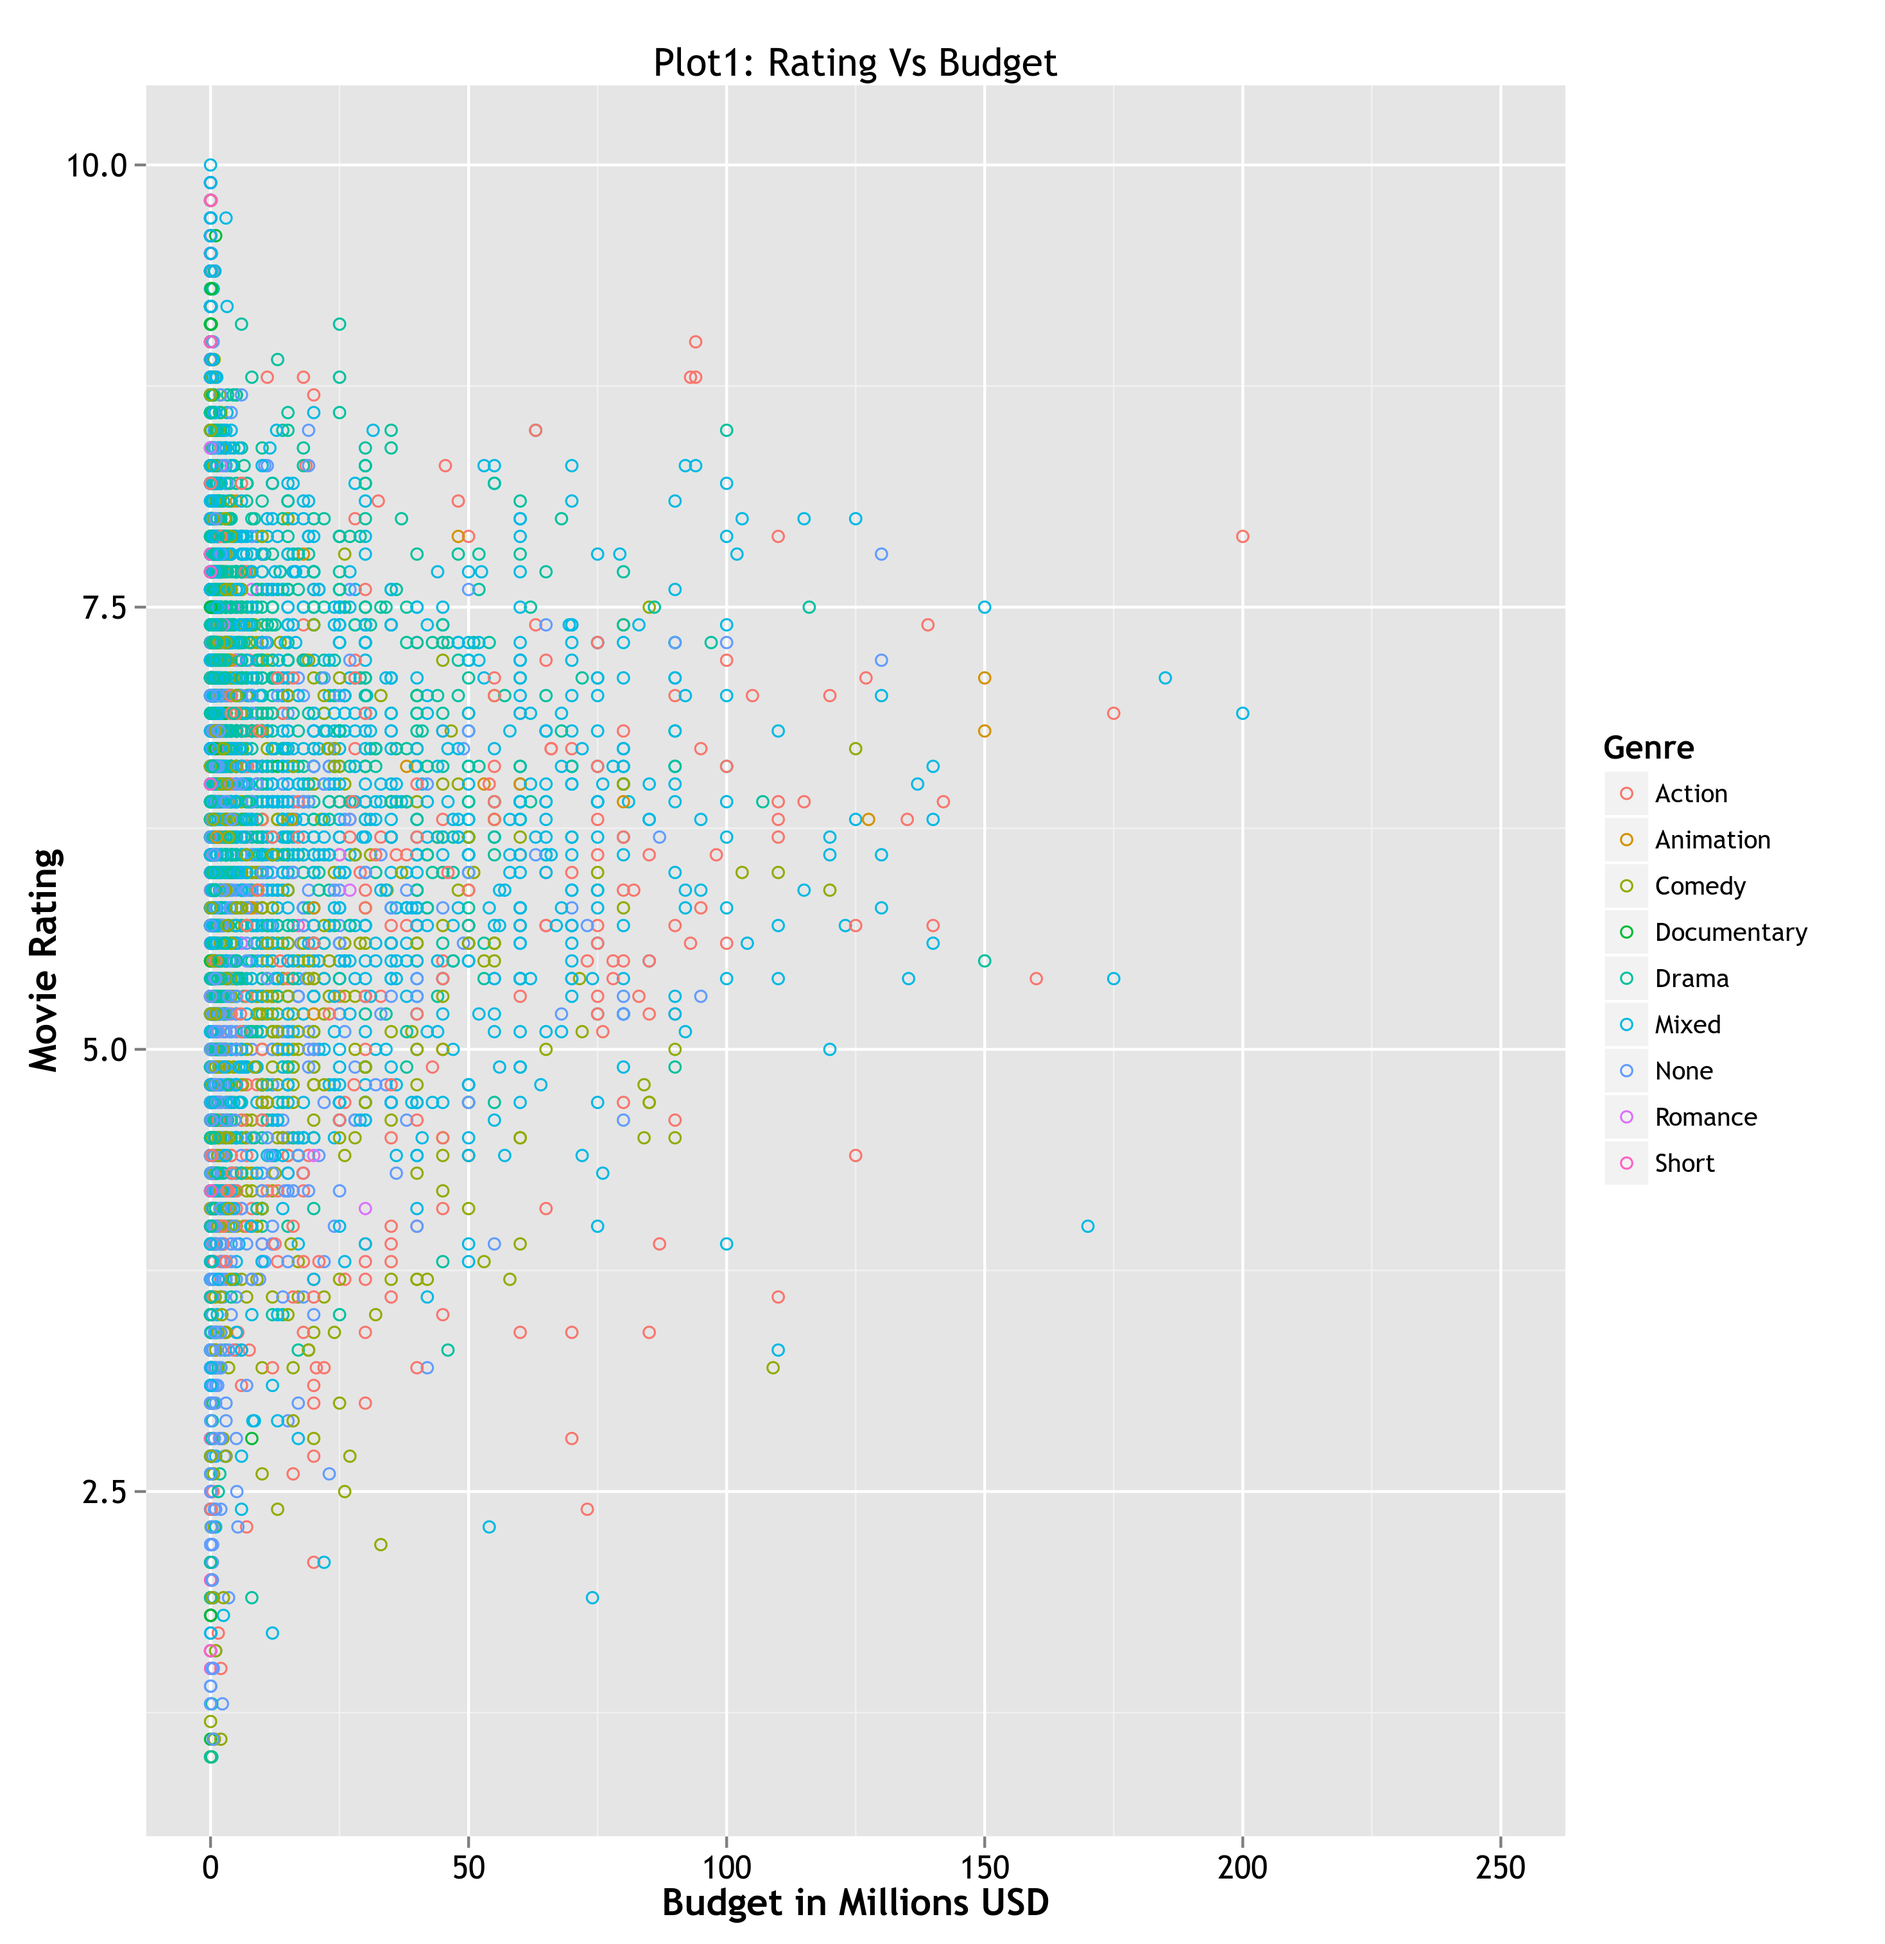
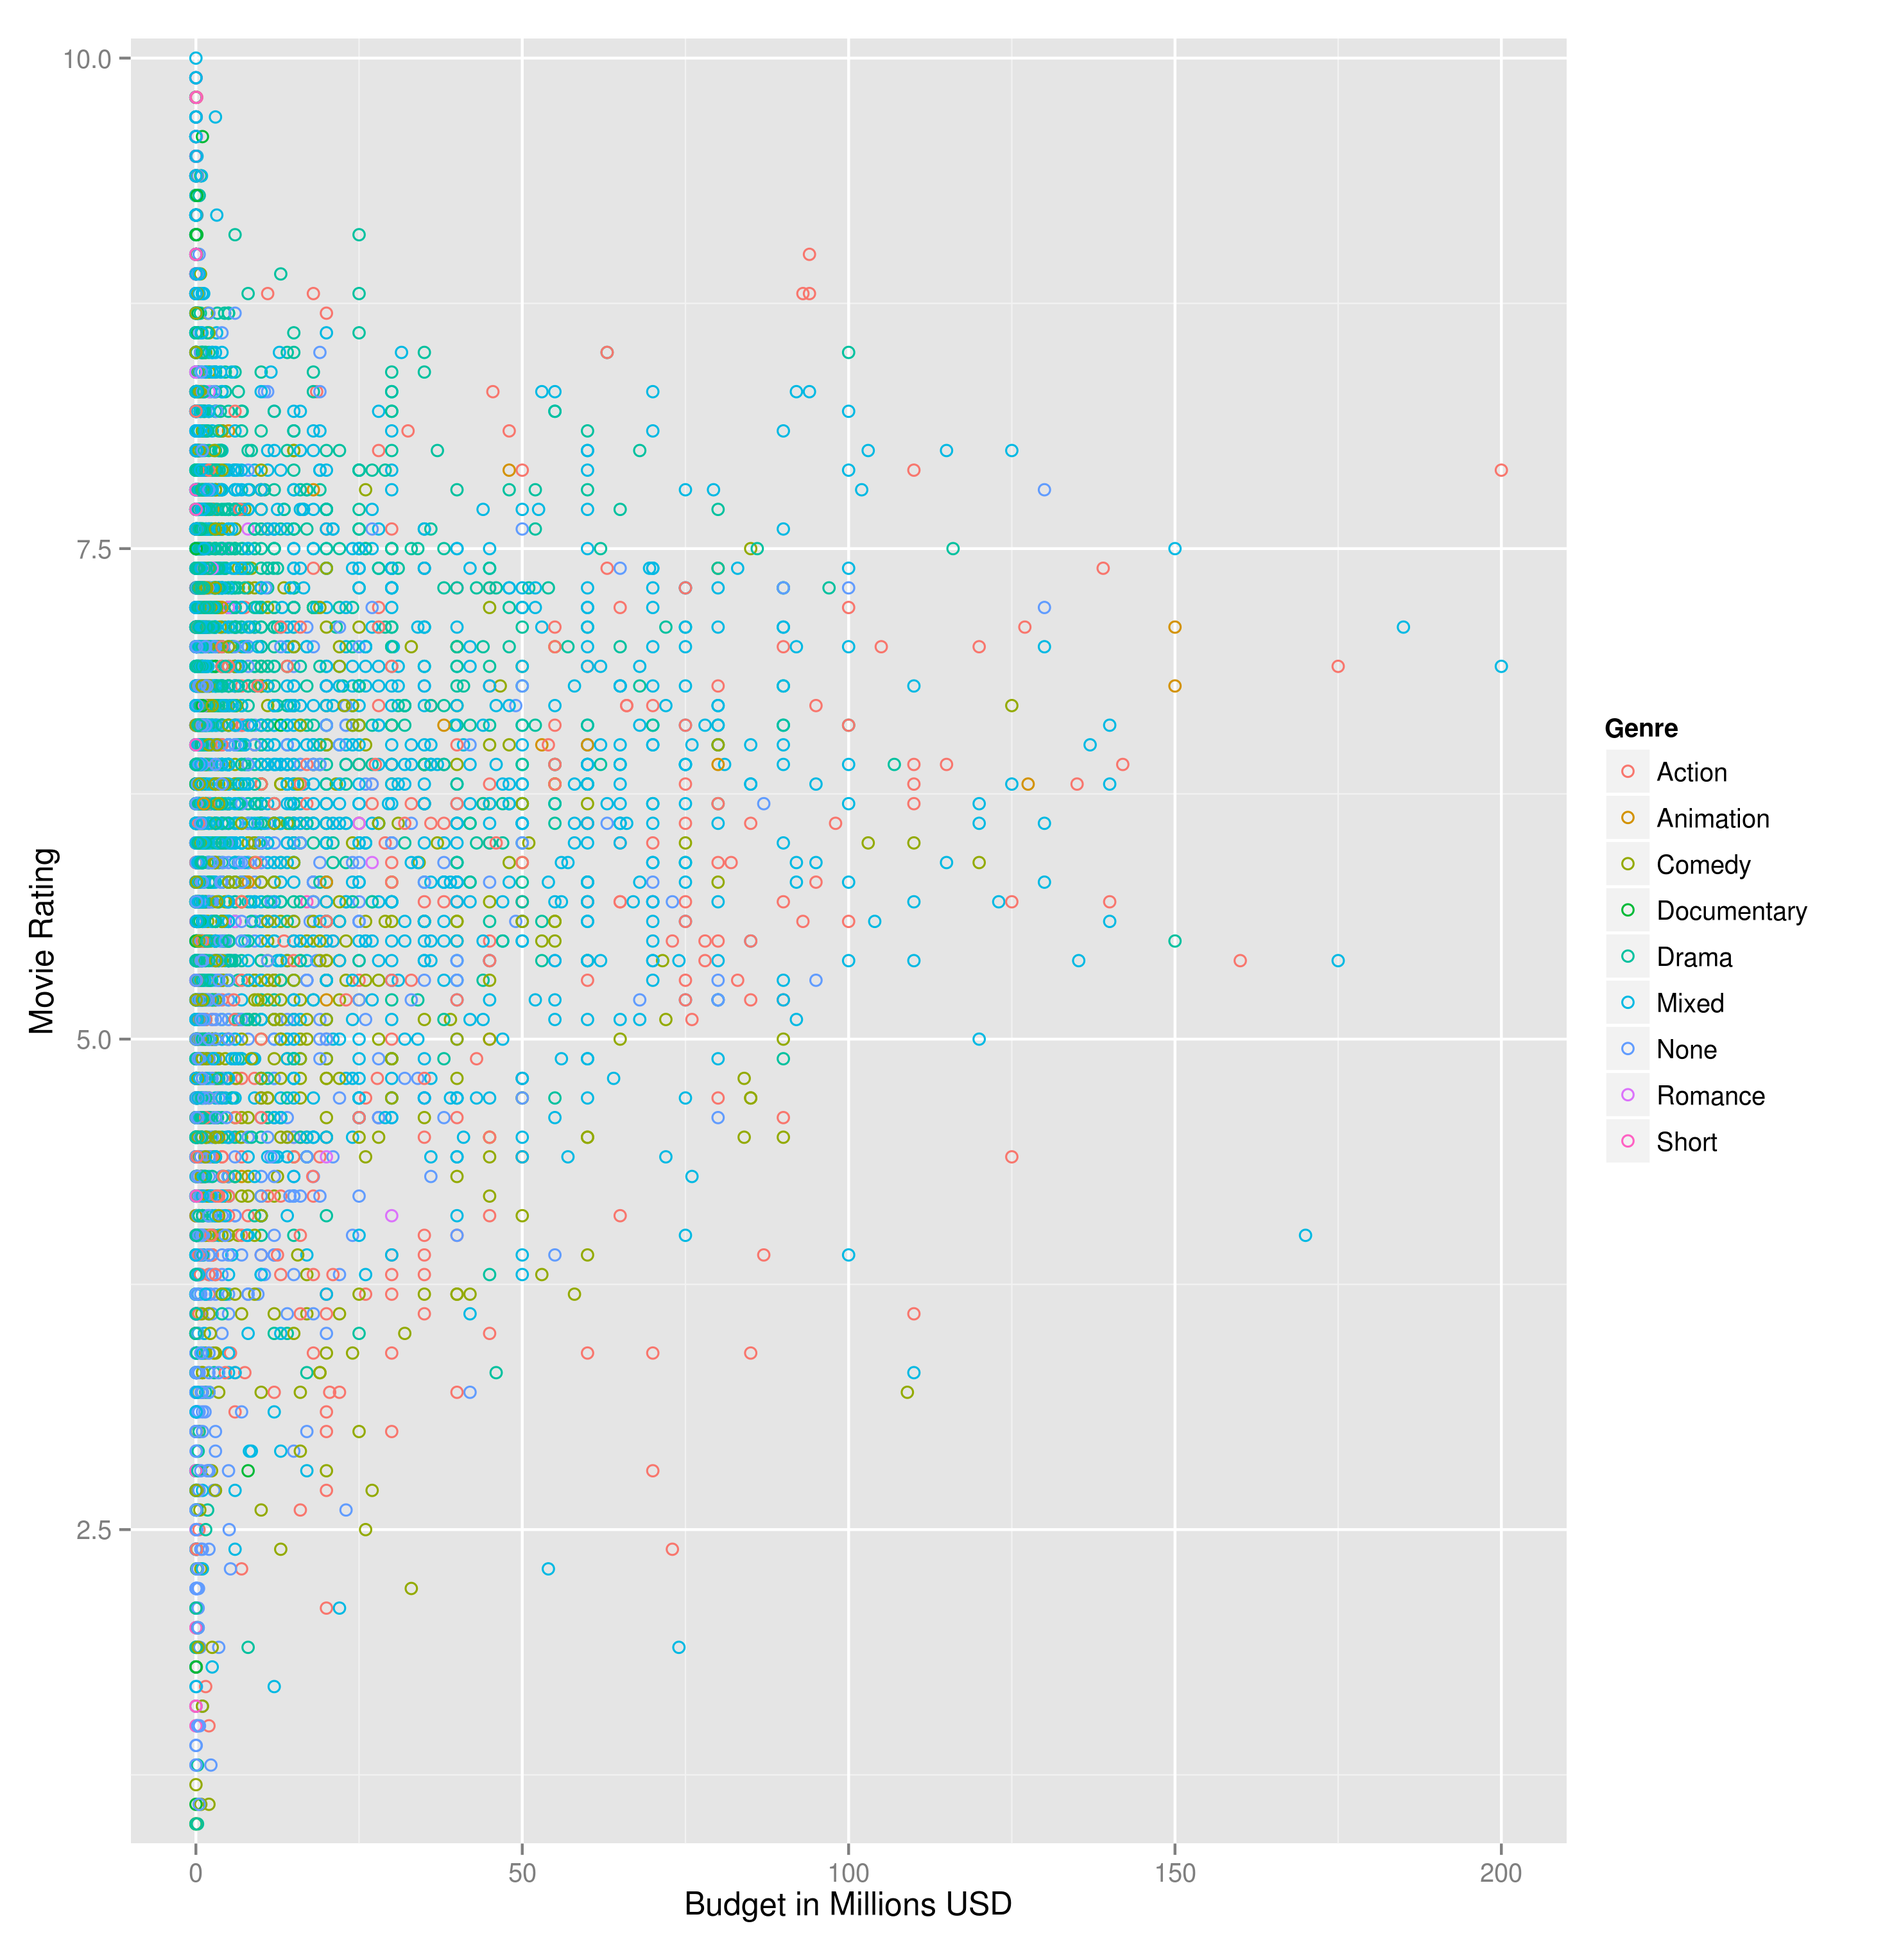
modify

diff --git a/homework1/Homework 1.md b/homework1/Homework 1.md
@@ -1,15 +1,10 @@
 Homework 1: Basic Charts
 ==============================
 
-For this assignment, you will practice using `R` and `ggplot2` to generate several basic charts, including a scatterplot, bar chart, small multiples plot, and multi-line plot.
-
-:warning: Your charts may be displayed and discussed in class. Please make sure to **not** include your name on the charts themselves to protect your identity.
-
 Setup
 ------------------------------
 
-This assignment will use the `movies` dataset in the `ggplot2` package and the `EuStockMarkets` dataset. You will need to perform some transformations of these datasets first to prepare for the visualizations.
-
+This assignment will use the `movies` dataset in the `ggplot2` package and the `EuStockMarkets` dataset. 
 Use the following code to load the datasets:
 
 ```
@@ -20,7 +15,11 @@ data(EuStockMarkets)
 
 Then, perform the following transformations:
 
-- Filter out any rows that have a `budget` value less than or equal to 0 in the `movies` dataset. 
+- Filter out any rows that have a `budget` value less than or equal to 0 or an 'NA' in the `movies` dataset. 
+  ```
+  idx <- which(movies$budget <=0 | is.na(movies$budget))
+  movies <- movies[-idx,]
+  ```
 
 - Add a `genre` column to the `movies` dataset as follows:
   ```
@@ -35,6 +34,10 @@ Then, perform the following transformations:
   genre[which(count == 1 & movies$Documentary == 1)] = "Documentary"
   genre[which(count == 1 & movies$Romance == 1)] = "Romance"
   genre[which(count == 1 & movies$Short == 1)] = "Short"
+
+  # Add the Genre column to the movies2 dataframe
+  movies$Genre <- genre
+
   ```
 
 - Transform the `EuStockMarkets` dataset to a time series as follows:
@@ -42,40 +45,26 @@ Then, perform the following transformations:
   eu <- transform(data.frame(EuStockMarkets), time = time(EuStockMarkets))
   ```
 
-At this point, you are ready to start working on the visualizations.
-
-Visualizations
+Visualizations & Discussion
 ------------------------------
 
-You must create the following plots in a single `R` script:
+- **Plot 1: Scatterplot.** 
 
-- **Plot 1: Scatterplot.** Produce a scatterplot from the `movies` dataset in the `ggplot2` package, where `budget` is shown on the x-axis and `rating` is shown on the y-axis. Save the plot as `hw1-scatter.png`.
+Below is the scatter plot for the movies dataset. With the `budget` as x-axis and the `rating` as the y-axis, i felt it is better to have a color scheme to distinguish the different genres of movies, hence ordered the colors to the data points based on the `Genre` they are categorized as. 
 
-- **Plot 2: Bar Chart.** Count the number of action, adventure, etc. movies in the `genre` column of the `movies` dataset. Show the results as a bar chart, and save the chart as `hw1-bar.png`.
+![IMAGE](hw1-scatter.png)
 
-- **Plot 3: Small Multiples.** Use the `genre` column in the `movies` dataset to generate a small-multiples scatterplot using the `facet_wrap()` function such that `budget` is shown on the x-axis and `rating` is shown on the y-axis. Save the plot as `hw1-multiples.png`.
+Although the visual is not vastly improved but at the least there is some demarcation between the different genre of movies. The x-axis has been scaled and expressed in millions of USD and a legend added as an aid for identification. Since the number of reviews for *Mixed* are way too many in number, they overlap most of the other genres.
 
-- **Plot 4: Multi-Line Chart.** Produce a multi-line chart from the `eu` dataset (created by transforming the `EuStockMarkets` dataset) with `time` shown on the x-axis and `price` on the y-axis. Draw one line for each index on the same chart. 
 
-  You will need to perform some additional transformations of the dataset before being able to generate this chart. See the multi-line plot code from class for an example.
+- **Plot 2: Bar Chart.** 
 
-For each chart, use `ggsave()` to save each chart as a `png` image. Make sure to set a reasonable width and height.
+![IMAGE](hw1-bar.png)
 
-To receive full points, you are required to add an appropriate chart title and axis labels to your charts *and* use color consistently in your charts. Optionally, consider the other aesthetic aspects of your chart. Play around with the settings for the major/minor tick marks, colors, shape, text, and the legend. 
+- **Plot 3: Small Multiples.** 
 
-:warning: You will not receive full points if you only specify the data and use all the default values for the other parameters.
+![IMAGE](hw1-multiples.png)
 
-Discussion
-------------------------------
+- **Plot 4: Multi-Line Chart.** 
 
-In your discussion, include each of the four images generated and a brief discussion following each image about the customization performed. For example, how did you use color? Why did you move the legend? (And so on.) The discussion for each image should be limited to a single paragraph with approximately 3 to 5 sentences.
-
-Submission
-------------------------------
-
-Place all of your `R` code in a single file, and include it and all generated images in a `homework1` directory within your `msan622` repository on GitHub. Make sure to include a `README.md` file with your name, USF email, instructions on running your code, and brief discussion.
-
-After all of the necessary files are pushed to your repository, submit a link to your `homework1` directory on Canvas.
-
-:warning: Please note that late submissions are not accepted. GitHub shows when you modified a file, so be sure not to modify your code after the deadline!
-
+![IMAGE](hw1-multiline.png)
